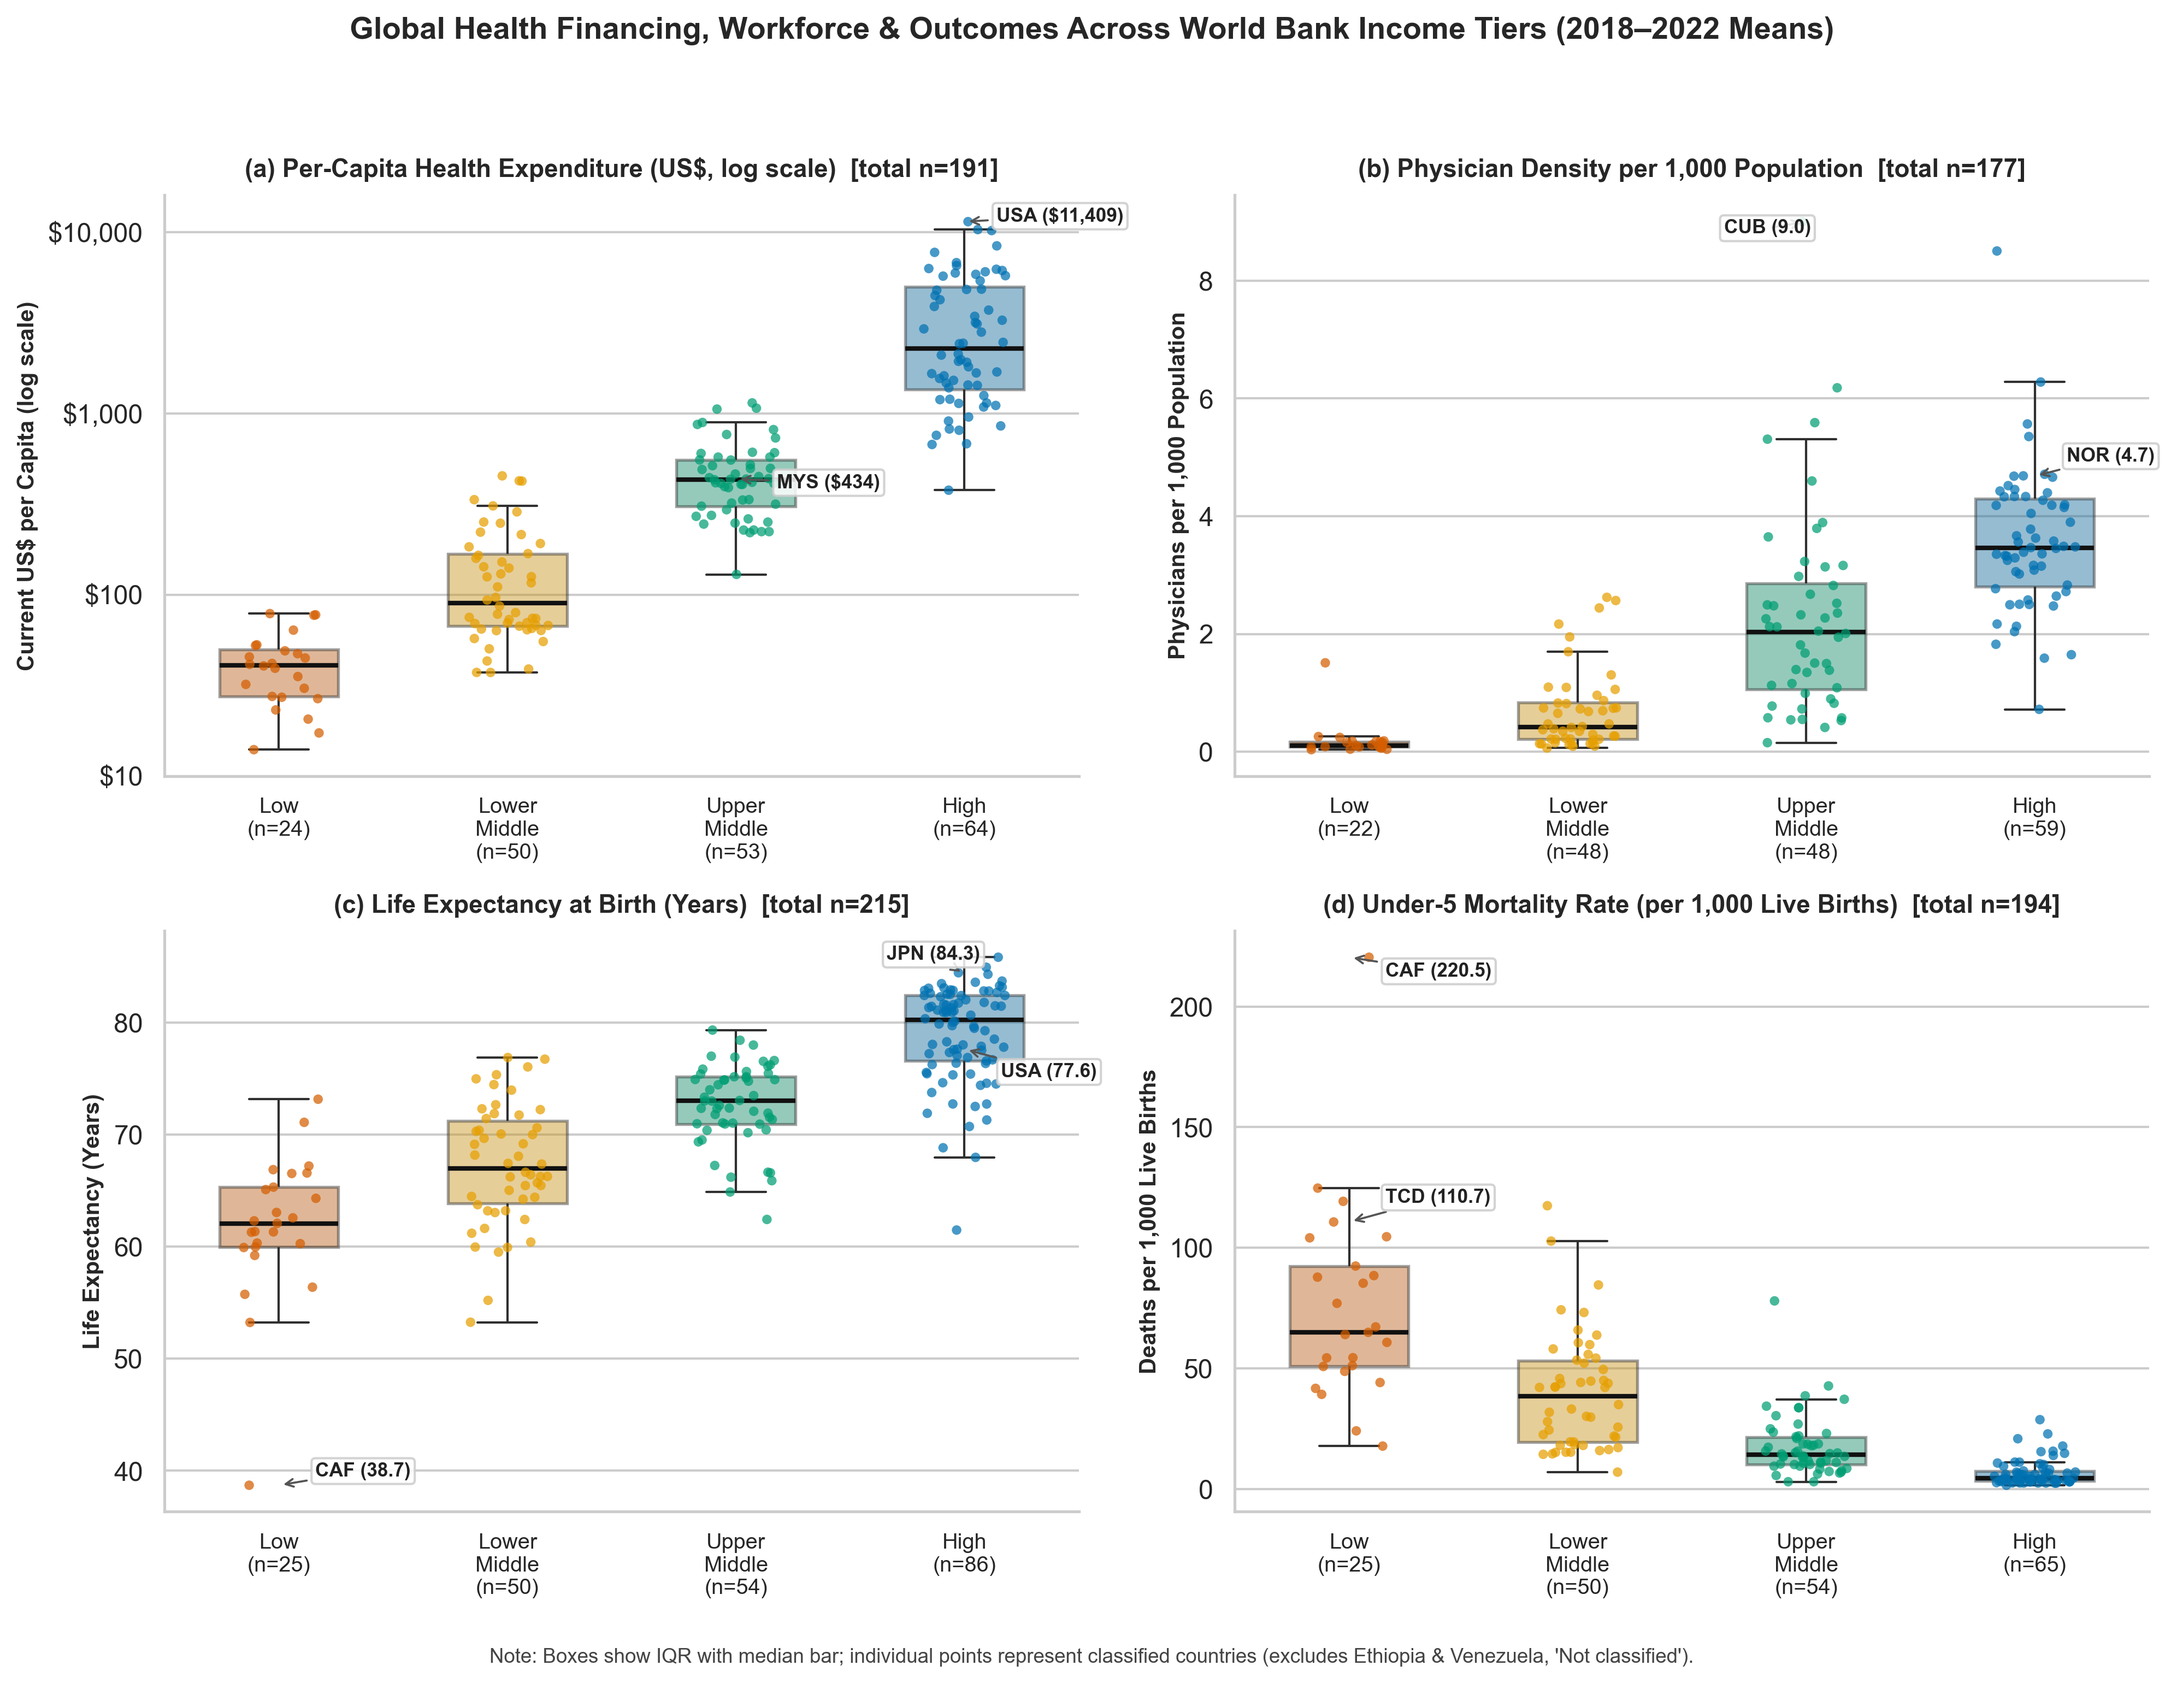
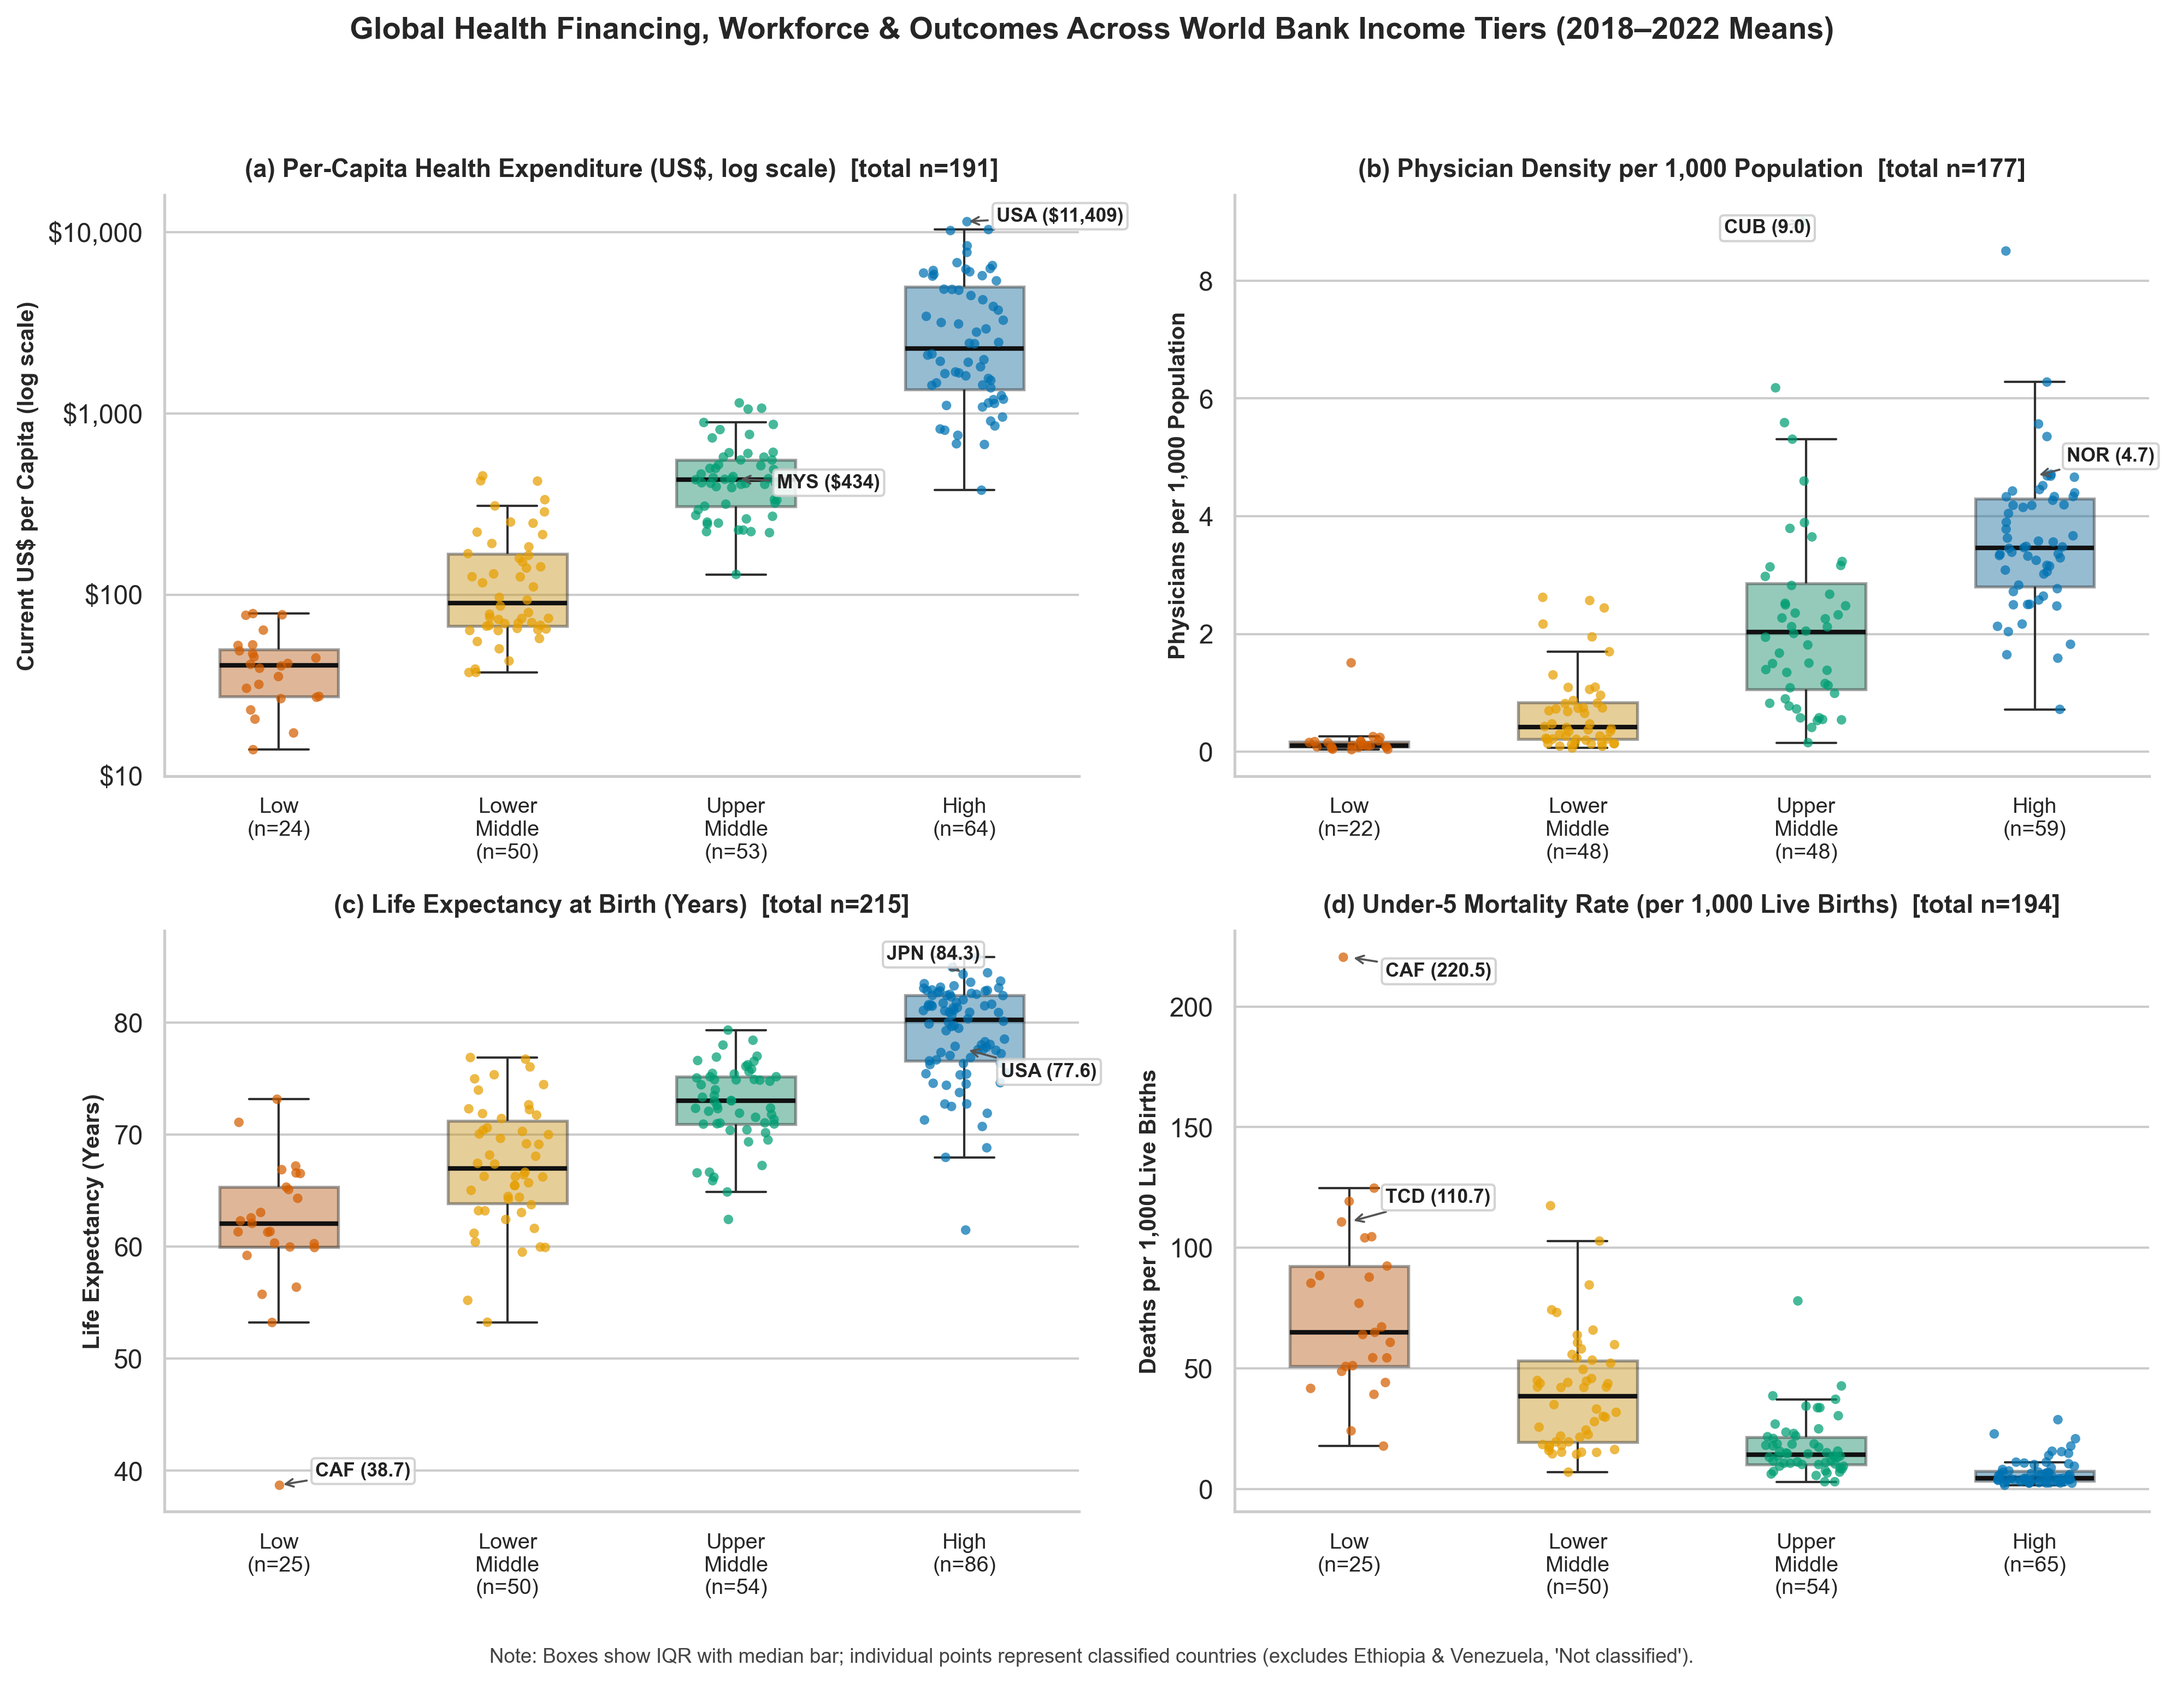
Compute dynamic pairwise sample size range (n=140-210) in fig01 heatmap

diff --git a/scripts/02_exploratory_data_analysis.py b/scripts/02_exploratory_data_analysis.py
@@ -190,9 +190,11 @@ def compute_summary_tables(cs: pd.DataFrame, panel: pd.DataFrame, covid: pd.Data
 # ---------------------------------------------------------------------------
 # Figure 1: Spearman Correlation Matrix Heatmap
 # ---------------------------------------------------------------------------
-def plot_spearman_heatmap(rho_mat: pd.DataFrame, pval_mat: pd.DataFrame):
+def plot_spearman_heatmap(rho_mat: pd.DataFrame, pval_mat: pd.DataFrame, n_mat: pd.DataFrame):
     labels = [VAR_LABELS[c] for c in KEY_VARS]
     mask = np.triu(np.ones_like(rho_mat, dtype=bool), k=1)
+    off_diag_n = n_mat.values[np.tril_indices(len(KEY_VARS), k=-1)]
+    n_min, n_max = int(off_diag_n.min()), int(off_diag_n.max())
 
     annot = pd.DataFrame("", index=KEY_VARS, columns=KEY_VARS)
     for i, c1 in enumerate(KEY_VARS):
@@ -226,7 +228,7 @@ def plot_spearman_heatmap(rho_mat: pd.DataFrame, pval_mat: pd.DataFrame):
     )
     ax.set_title(
         "Spearman Rank Correlation Matrix of Health Financing, Workforce & Outcomes\n"
-        "(2018–2022 Country Averages; pairwise complete n = 135–215)",
+        f"(2018–2022 Country Averages; pairwise complete n = {n_min}–{n_max})",
         pad=14,
         fontsize=12.5,
     )
@@ -724,7 +726,7 @@ def main():
         cs, panel, covid
     )
 
-    plot_spearman_heatmap(rho_mat, pval_mat)
+    plot_spearman_heatmap(rho_mat, pval_mat, n_mat)
     plot_income_distributions(cs)
     plot_preston_curves(cs)
     plot_longitudinal_trends(panel)
